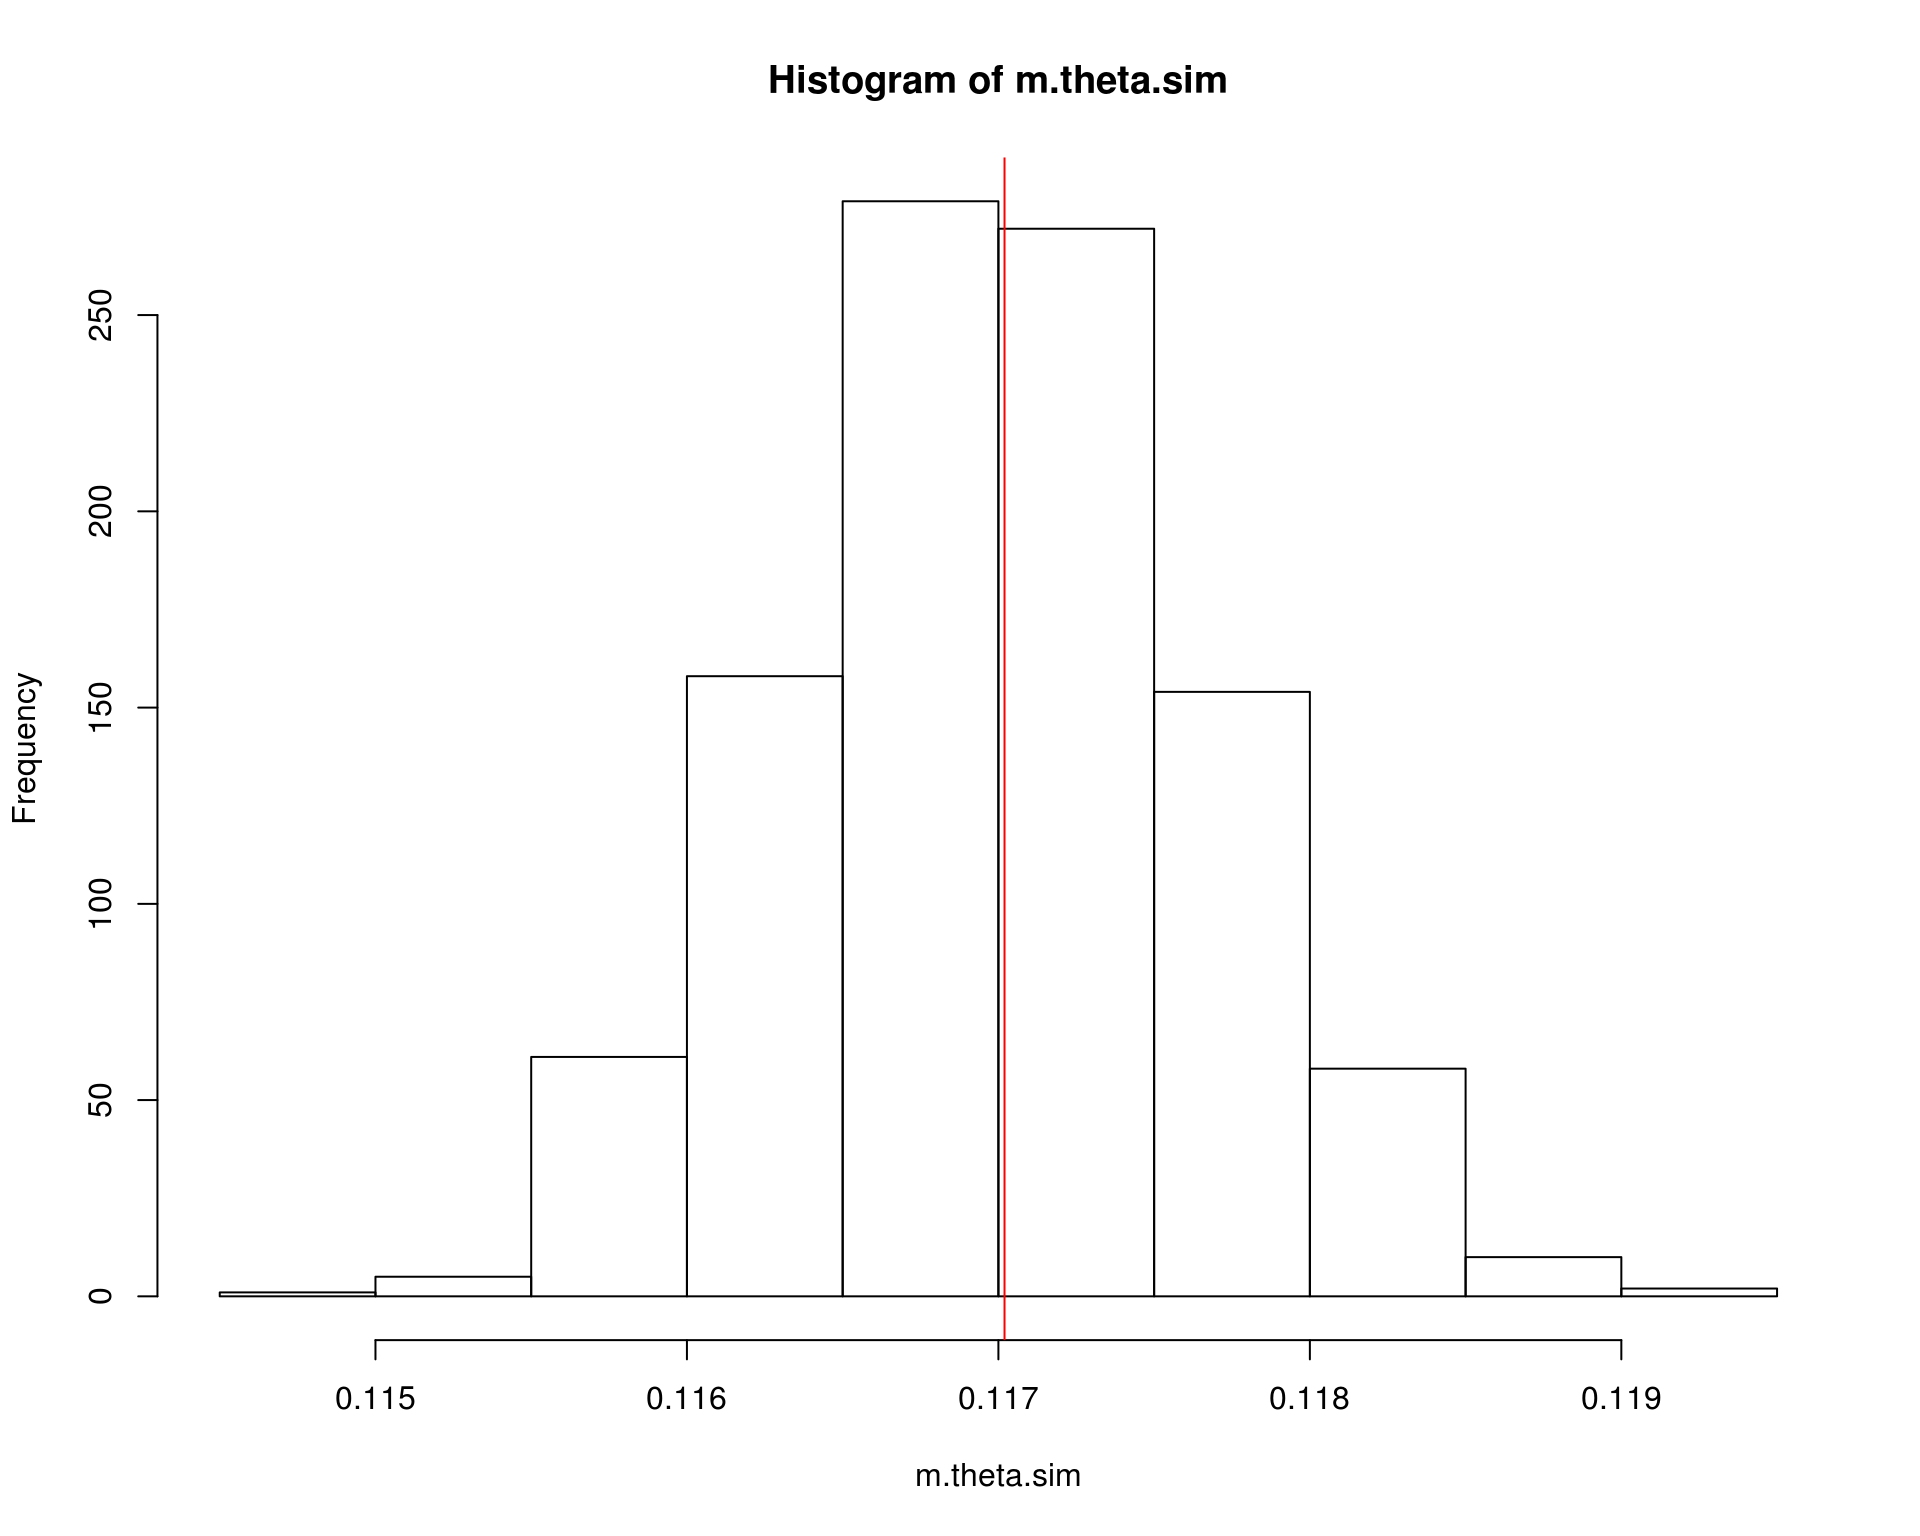
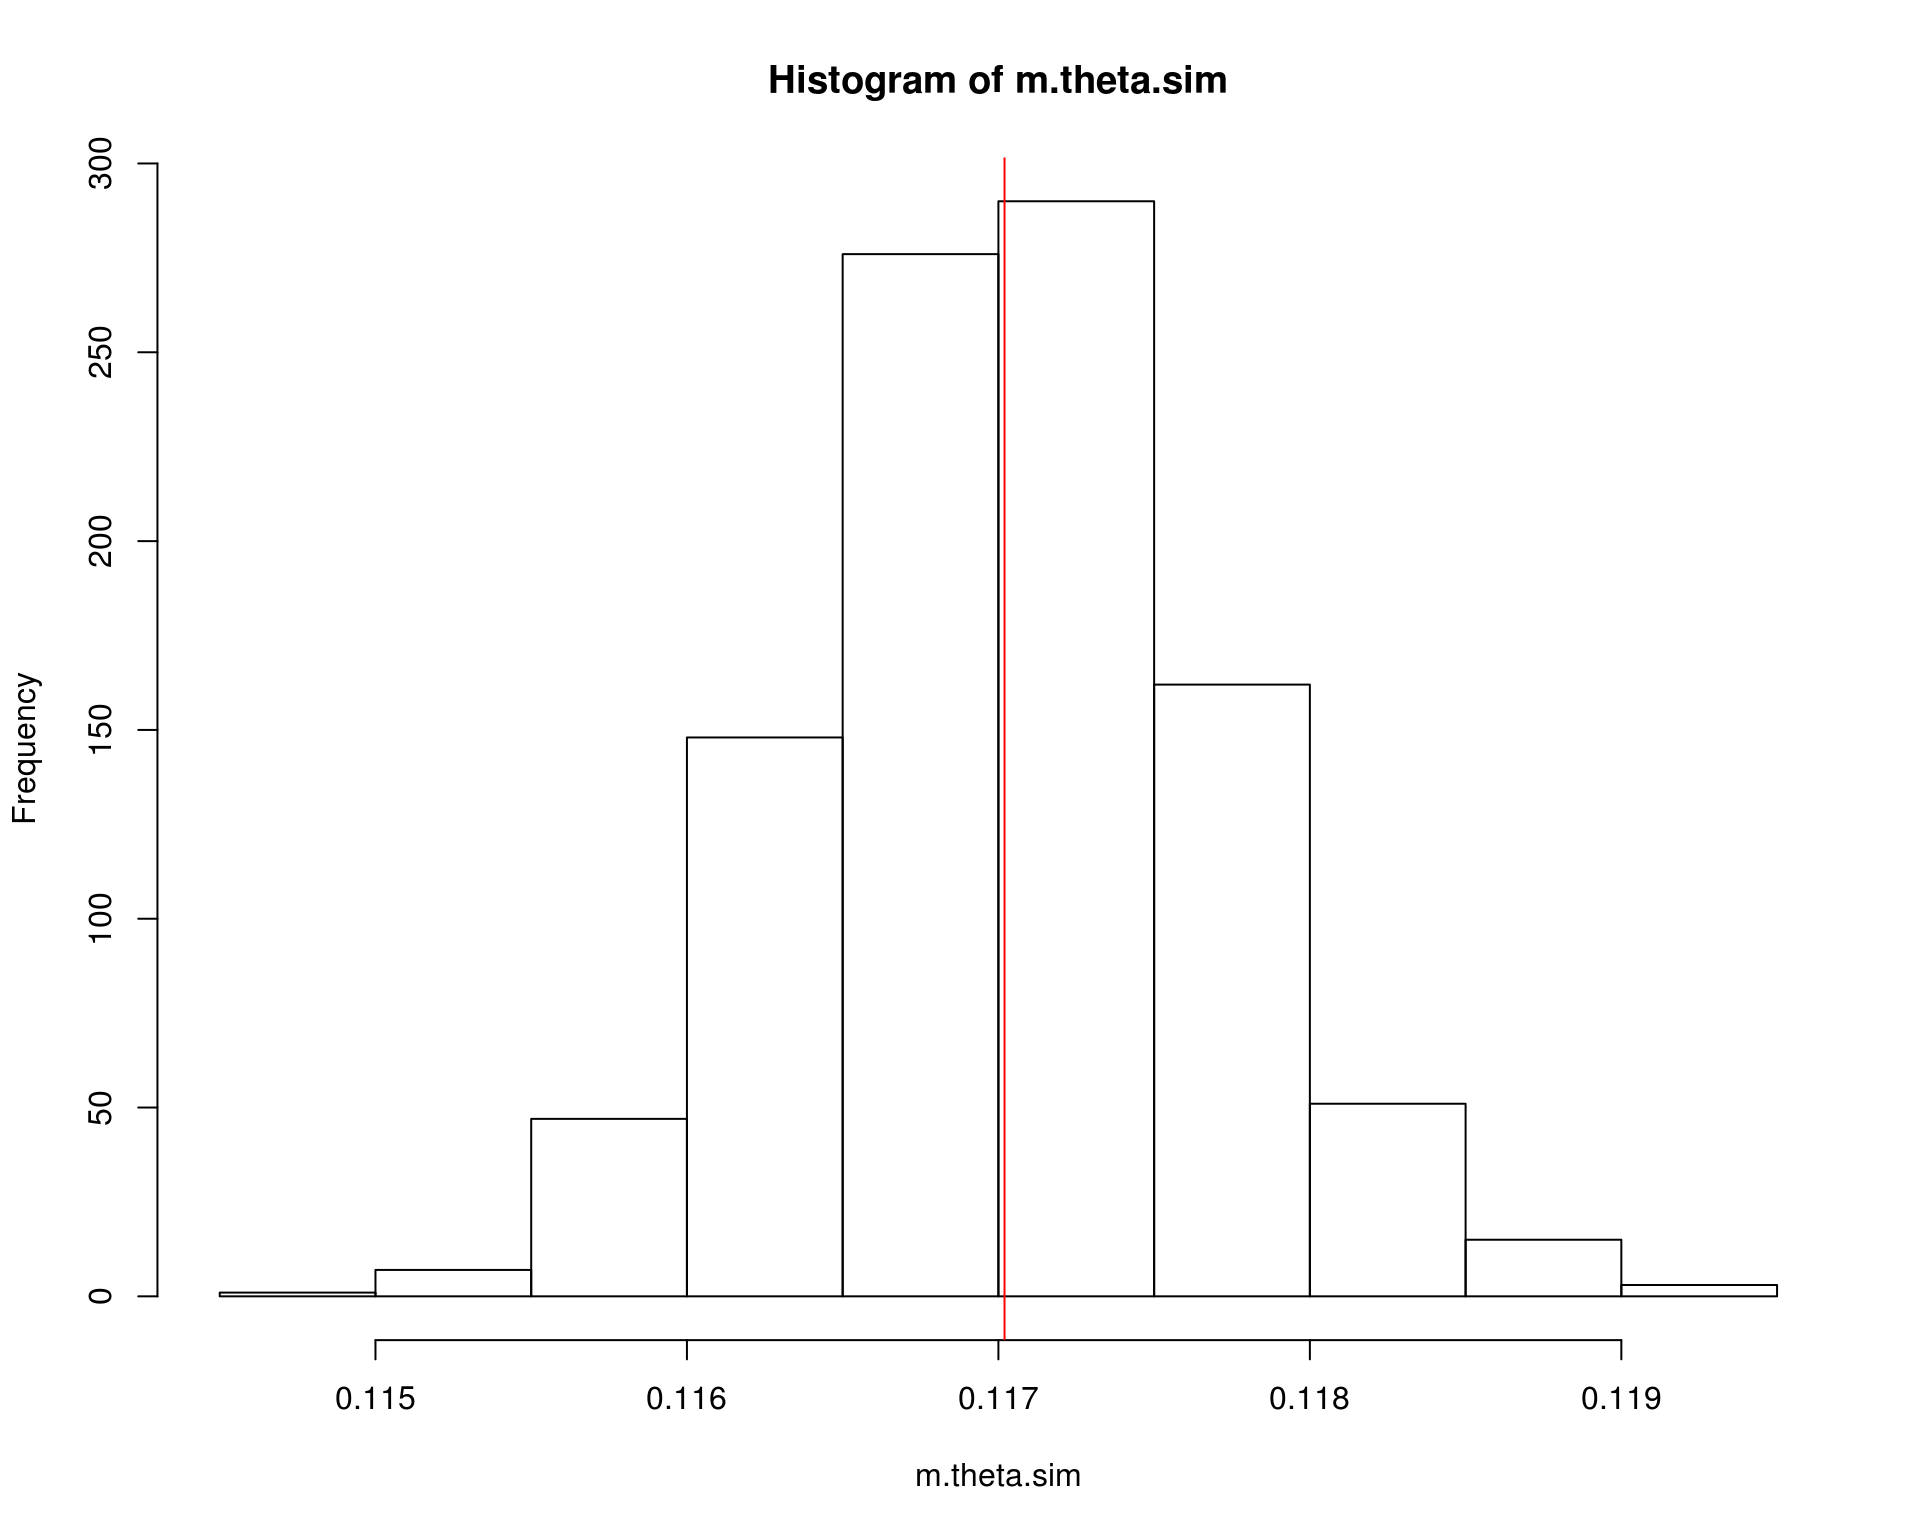
The site is alive.

diff --git a/notas.html b/notas.html
@@ -307,180 +307,305 @@ $(document).ready(function () {
 <thead>
 <tr class="header">
 <th align="left">Matrícula</th>
+<th align="left">Nome</th>
 <th align="right">A1</th>
 <th align="right">A2</th>
 <th align="right">P1</th>
 <th align="right">P2</th>
+<th align="right">Apres</th>
+<th align="right">Trab</th>
+<th align="right">Parcial</th>
+<th align="left">X</th>
 </tr>
 </thead>
 <tbody>
 <tr class="odd">
 <td align="left">GRR20137526</td>
+<td align="left">ALEXANDRE MORALES DIAZ</td>
 <td align="right">NA</td>
 <td align="right">NA</td>
 <td align="right">NA</td>
 <td align="right">NA</td>
+<td align="right">NA</td>
+<td align="right">NA</td>
+<td align="right">0</td>
+<td align="left">R-FALTA</td>
 </tr>
 <tr class="even">
 <td align="left">GRR20137583</td>
+<td align="left">NATHALIE DO AMARAL PORTO MARTINS</td>
 <td align="right">NA</td>
 <td align="right">NA</td>
 <td align="right">NA</td>
 <td align="right">NA</td>
+<td align="right">NA</td>
+<td align="right">NA</td>
+<td align="right">0</td>
+<td align="left">R-FALTA</td>
 </tr>
 <tr class="odd">
 <td align="left">GRR20149092</td>
+<td align="left">JOAO MATHEUS SLUJALA KRUGER TABORDA HNEDA</td>
 <td align="right">12</td>
 <td align="right">NA</td>
 <td align="right">NA</td>
 <td align="right">NA</td>
+<td align="right">NA</td>
+<td align="right">NA</td>
+<td align="right">1</td>
+<td align="left">R-FALTA</td>
 </tr>
 <tr class="even">
 <td align="left">GRR20149112</td>
+<td align="left">NATHAN MACHADO OLSCHOWSKY</td>
 <td align="right">25</td>
 <td align="right">NA</td>
 <td align="right">NA</td>
 <td align="right">NA</td>
+<td align="right">NA</td>
+<td align="right">NA</td>
+<td align="right">2</td>
+<td align="left">R-FALTA</td>
 </tr>
 <tr class="odd">
 <td align="left">GRR20149163</td>
+<td align="left">BRENDHA RODRIGUES DE LIMA</td>
 <td align="right">10</td>
 <td align="right">10</td>
 <td align="right">12</td>
 <td align="right">NA</td>
+<td align="right">NA</td>
+<td align="right">NA</td>
+<td align="right">5</td>
+<td align="left">R-FALTA</td>
 </tr>
 <tr class="even">
 <td align="left">GRR20159111</td>
+<td align="left">MAIKE WILLIAN MARTINS DOS SANTOS</td>
 <td align="right">5</td>
 <td align="right">NA</td>
 <td align="right">NA</td>
 <td align="right">NA</td>
+<td align="right">NA</td>
+<td align="right">NA</td>
+<td align="right">0</td>
+<td align="left">R-FALTA</td>
 </tr>
 <tr class="odd">
 <td align="left">GRR20159136</td>
+<td align="left">LUCAS LABHARDT LISBOA</td>
 <td align="right">NA</td>
 <td align="right">NA</td>
 <td align="right">NA</td>
 <td align="right">NA</td>
+<td align="right">NA</td>
+<td align="right">NA</td>
+<td align="right">0</td>
+<td align="left">R_FALTA</td>
 </tr>
 <tr class="even">
 <td align="left">GRR20159211</td>
+<td align="left">HERMANN MOGIZ DELGADO</td>
 <td align="right">50</td>
 <td align="right">90</td>
 <td align="right">57</td>
 <td align="right">89</td>
+<td align="right">80</td>
+<td align="right">85</td>
+<td align="right">75</td>
+<td align="left">Aprovado</td>
 </tr>
 <tr class="odd">
 <td align="left">GRR20159231</td>
+<td align="left">THAYS COSTA E SILVA DE SOUZA</td>
 <td align="right">25</td>
 <td align="right">30</td>
 <td align="right">17</td>
 <td align="right">10</td>
+<td align="right">0</td>
+<td align="right">70</td>
+<td align="right">23</td>
+<td align="left">Reprovado</td>
 </tr>
 <tr class="even">
 <td align="left">GRR20159695</td>
+<td align="left">ALTAMIRO ANTONIO BASIEWICS</td>
 <td align="right">NA</td>
 <td align="right">NA</td>
 <td align="right">NA</td>
 <td align="right">NA</td>
+<td align="right">NA</td>
+<td align="right">NA</td>
+<td align="right">0</td>
+<td align="left">R-FALTA</td>
 </tr>
 <tr class="odd">
 <td align="left">GRR20160204</td>
+<td align="left">GEAN PAULO SOARES MACHADO</td>
 <td align="right">5</td>
 <td align="right">NA</td>
 <td align="right">NA</td>
 <td align="right">NA</td>
+<td align="right">NA</td>
+<td align="right">NA</td>
+<td align="right">0</td>
+<td align="left">R-FALTA</td>
 </tr>
 <tr class="even">
 <td align="left">GRR20160206</td>
+<td align="left">RAFAEL BUTTINI SALVIATO</td>
 <td align="right">96</td>
 <td align="right">70</td>
 <td align="right">36</td>
 <td align="right">75</td>
+<td align="right">90</td>
+<td align="right">80</td>
+<td align="right">71</td>
+<td align="left">Aprovado</td>
 </tr>
 <tr class="odd">
 <td align="left">GRR20160215</td>
+<td align="left">GUSTAVO SCHILLING SCHUTT</td>
 <td align="right">83</td>
 <td align="right">20</td>
 <td align="right">22</td>
 <td align="right">56</td>
+<td align="right">70</td>
+<td align="right">75</td>
+<td align="right">52</td>
+<td align="left">Final</td>
 </tr>
 <tr class="even">
 <td align="left">GRR20160217</td>
+<td align="left">RAFAEL MORCIANI ALVES DA SILVA</td>
 <td align="right">50</td>
 <td align="right">69</td>
 <td align="right">43</td>
 <td align="right">55</td>
+<td align="right">70</td>
+<td align="right">75</td>
+<td align="right">58</td>
+<td align="left">Final</td>
 </tr>
 <tr class="odd">
 <td align="left">GRR20160219</td>
+<td align="left">LUAN DEMARCO FIORENTIN</td>
 <td align="right">100</td>
 <td align="right">67</td>
 <td align="right">76</td>
 <td align="right">76</td>
+<td align="right">90</td>
+<td align="right">95</td>
+<td align="right">82</td>
+<td align="left">Aprovado</td>
 </tr>
 <tr class="even">
 <td align="left">GRR20160221</td>
+<td align="left">LETICIA VIEIRA DA ROCHA</td>
 <td align="right">NA</td>
 <td align="right">NA</td>
 <td align="right">NA</td>
 <td align="right">NA</td>
+<td align="right">NA</td>
+<td align="right">NA</td>
+<td align="right">0</td>
+<td align="left">R-FALTA</td>
 </tr>
 <tr class="odd">
 <td align="left">GRR20160230</td>
+<td align="left">IGOR HOLTRUP HORROCKS</td>
 <td align="right">95</td>
 <td align="right">25</td>
 <td align="right">58</td>
 <td align="right">70</td>
+<td align="right">90</td>
+<td align="right">80</td>
+<td align="right">71</td>
+<td align="left">Aprovado</td>
 </tr>
 <tr class="even">
 <td align="left">GRR20160239</td>
+<td align="left">DENNIS SANTOS LEAO</td>
 <td align="right">45</td>
 <td align="right">52</td>
 <td align="right">19</td>
 <td align="right">74</td>
+<td align="right">100</td>
+<td align="right">90</td>
+<td align="right">61</td>
+<td align="left">Final</td>
 </tr>
 <tr class="odd">
 <td align="left">GRR20160304</td>
+<td align="left">ALLAN TETSUYA MORINAGA</td>
 <td align="right">NA</td>
 <td align="right">NA</td>
 <td align="right">NA</td>
 <td align="right">NA</td>
+<td align="right">NA</td>
+<td align="right">NA</td>
+<td align="right">0</td>
+<td align="left">R-FALTA</td>
 </tr>
 <tr class="even">
 <td align="left">GRR20164019</td>
+<td align="left">HURIEL RUAN REICHEL</td>
 <td align="right">48</td>
 <td align="right">NA</td>
 <td align="right">NA</td>
 <td align="right">NA</td>
+<td align="right">NA</td>
+<td align="right">NA</td>
+<td align="right">5</td>
+<td align="left">R-FALTA</td>
 </tr>
 <tr class="odd">
 <td align="left">GRR20165742</td>
+<td align="left">THIAGO LEDUR HOEFLICH</td>
 <td align="right">10</td>
 <td align="right">NA</td>
 <td align="right">NA</td>
 <td align="right">NA</td>
+<td align="right">NA</td>
+<td align="right">NA</td>
+<td align="right">1</td>
+<td align="left">R-FALTA</td>
 </tr>
 <tr class="even">
 <td align="left">GRR20176432</td>
+<td align="left">MATEUS GEMELLI RAMOS</td>
 <td align="right">17</td>
 <td align="right">NA</td>
 <td align="right">NA</td>
 <td align="right">NA</td>
+<td align="right">NA</td>
+<td align="right">NA</td>
+<td align="right">2</td>
+<td align="left">R-FALTA</td>
 </tr>
 <tr class="odd">
 <td align="left">GRR20185596</td>
+<td align="left">RODRIGO PORTANTIOLO WAGNER</td>
 <td align="right">NA</td>
 <td align="right">NA</td>
 <td align="right">NA</td>
 <td align="right">NA</td>
+<td align="right">NA</td>
+<td align="right">NA</td>
+<td align="right">0</td>
+<td align="left">R-FALTA</td>
 </tr>
 <tr class="even">
 <td align="left">ISO20130219</td>
+<td align="left">ANDRYAS WAURZENCZAK</td>
 <td align="right">NA</td>
 <td align="right">NA</td>
 <td align="right">NA</td>
 <td align="right">NA</td>
+<td align="right">NA</td>
+<td align="right">NA</td>
+<td align="right">0</td>
+<td align="left">R-FALTA</td>
 </tr>
 </tbody>
 </table>

diff --git a/MC_intro.html b/MC_intro.html
@@ -553,7 +553,7 @@ P(\lim_{n \to \infty} |\bar{X}_n - \mu| &lt; \epsilon) = 1
 <a class="sourceLine" id="cb1-5" title="5">theta.hat &lt;-<span class="st"> </span><span class="kw">exp</span>(<span class="op">-</span>x)</a>
 <a class="sourceLine" id="cb1-6" title="6"><span class="co">## Calcula a média</span></a>
 <a class="sourceLine" id="cb1-7" title="7">(m.theta.hat &lt;-<span class="st"> </span><span class="kw">sum</span>(theta.hat)<span class="op">/</span>m)</a>
-<a class="sourceLine" id="cb1-8" title="8"><span class="co"># [1] 0.6298755</span></a></code></pre></div>
+<a class="sourceLine" id="cb1-8" title="8"><span class="co"># [1] 0.6314137</span></a></code></pre></div>
 <p>Nesse caso, podemos obter a solução analítica e integração numérica no R para comparar as estimativas</p>
 <div class="sourceCode" id="cb2"><pre class="sourceCode r"><code class="sourceCode r"><a class="sourceLine" id="cb2-1" title="1"><span class="co">## Solução analítica</span></a>
 <a class="sourceLine" id="cb2-2" title="2">(theta &lt;-<span class="st"> </span><span class="dv">1</span> <span class="op">-</span><span class="st"> </span><span class="kw">exp</span>(<span class="op">-</span><span class="dv">1</span>))</a>
@@ -593,7 +593,7 @@ P(\lim_{n \to \infty} |\bar{X}_n - \mu| &lt; \epsilon) = 1
 <a class="sourceLine" id="cb3-6" title="6">theta.hat &lt;-<span class="st"> </span><span class="kw">exp</span>(<span class="op">-</span>x)</a>
 <a class="sourceLine" id="cb3-7" title="7"><span class="co">## Calcula a média * (b - a)</span></a>
 <a class="sourceLine" id="cb3-8" title="8">(m.theta.hat &lt;-<span class="st"> </span>(<span class="kw">sum</span>(theta.hat)<span class="op">/</span>m) <span class="op">*</span><span class="st"> </span>(b <span class="op">-</span><span class="st"> </span>a))</a>
-<a class="sourceLine" id="cb3-9" title="9"><span class="co"># [1] 0.11696</span></a></code></pre></div>
+<a class="sourceLine" id="cb3-9" title="9"><span class="co"># [1] 0.1175212</span></a></code></pre></div>
 <p>Nesse caso, podemos obter a solução analítica e integração numérica no R para comparar as estimativas</p>
 <div class="sourceCode" id="cb4"><pre class="sourceCode r"><code class="sourceCode r"><a class="sourceLine" id="cb4-1" title="1"><span class="co">## Solução analítica</span></a>
 <a class="sourceLine" id="cb4-2" title="2">(theta &lt;-<span class="st"> </span><span class="kw">exp</span>(<span class="op">-</span><span class="dv">2</span>) <span class="op">-</span><span class="st"> </span><span class="kw">exp</span>(<span class="op">-</span><span class="dv">4</span>))</a>
@@ -614,7 +614,7 @@ P[X&gt;2] = \int_2^{\infty} e^{-x} dx
 <a class="sourceLine" id="cb5-5" title="5">theta.hat2 &lt;-<span class="st"> </span><span class="kw">exp</span>(<span class="op">-</span>x2)</a>
 <a class="sourceLine" id="cb5-6" title="6"><span class="co">## Calcula a média * (b - a)</span></a>
 <a class="sourceLine" id="cb5-7" title="7">(m.theta.hat2 &lt;-<span class="st"> </span>(<span class="kw">sum</span>(theta.hat2)<span class="op">/</span>m) <span class="op">*</span><span class="st"> </span>(<span class="fl">1e5</span> <span class="op">-</span><span class="st"> </span><span class="dv">2</span>))</a>
-<a class="sourceLine" id="cb5-8" title="8"><span class="co"># [1] 7.103164e-06</span></a>
+<a class="sourceLine" id="cb5-8" title="8"><span class="co"># [1] 1.622695e-06</span></a>
 <a class="sourceLine" id="cb5-9" title="9"><span class="co">## Solução analítica</span></a>
 <a class="sourceLine" id="cb5-10" title="10">(theta2 &lt;-<span class="st"> </span><span class="kw">exp</span>(<span class="op">-</span><span class="dv">2</span>) <span class="op">-</span><span class="st"> </span><span class="kw">exp</span>(<span class="op">-</span><span class="fl">1e5</span>))</a>
 <a class="sourceLine" id="cb5-11" title="11"><span class="co"># [1] 0.1353353</span></a>
@@ -635,17 +635,17 @@ P[X&gt;2] = \int_2^{\infty} e^{-x} dx
 \]</span></p>
 <p>Seguindo o exemplo anterior, vimos que a estimativa da integral é</p>
 <div class="sourceCode" id="cb6"><pre class="sourceCode r"><code class="sourceCode r"><a class="sourceLine" id="cb6-1" title="1">m.theta.hat</a>
-<a class="sourceLine" id="cb6-2" title="2"><span class="co"># [1] 0.11696</span></a></code></pre></div>
+<a class="sourceLine" id="cb6-2" title="2"><span class="co"># [1] 0.1175212</span></a></code></pre></div>
 <p>Mas veja que existe uma distribuição de valores para compor esta estimativa média</p>
 <div class="sourceCode" id="cb7"><pre class="sourceCode r"><code class="sourceCode r"><a class="sourceLine" id="cb7-1" title="1"><span class="kw">hist</span>(theta.hat); <span class="kw">abline</span>(<span class="dt">v =</span> theta, <span class="dt">col =</span> <span class="dv">2</span>)</a></code></pre></div>
 <p><img src="figures/MC_intro/unnamed-chunk-9-1.png" width="80%" style="display: block; margin: auto;" /></p>
 <p>A variância relacionada ao estimador pode então ser calculada como</p>
 <div class="sourceCode" id="cb8"><pre class="sourceCode r"><code class="sourceCode r"><a class="sourceLine" id="cb8-1" title="1"><span class="co">## Variancia</span></a>
 <a class="sourceLine" id="cb8-2" title="2">(v.theta.hat &lt;-<span class="st"> </span><span class="kw">sum</span>((theta.hat <span class="op">-</span><span class="st"> </span>m.theta.hat)<span class="op">^</span><span class="dv">2</span>)<span class="op">/</span>m<span class="op">^</span><span class="dv">2</span>)</a>
-<a class="sourceLine" id="cb8-3" title="3"><span class="co"># [1] 4.483504e-07</span></a>
+<a class="sourceLine" id="cb8-3" title="3"><span class="co"># [1] 4.529591e-07</span></a>
 <a class="sourceLine" id="cb8-4" title="4"><span class="co">## Erro padrão</span></a>
 <a class="sourceLine" id="cb8-5" title="5">(se.theta.hat &lt;-<span class="st"> </span><span class="kw">sqrt</span>(v.theta.hat))</a>
-<a class="sourceLine" id="cb8-6" title="6"><span class="co"># [1] 0.0006695897</span></a></code></pre></div>
+<a class="sourceLine" id="cb8-6" title="6"><span class="co"># [1] 0.0006730223</span></a></code></pre></div>
 <p>Pelo Teorema do Limite Central, temos que</p>
 <p><span class="math display">\[
 \frac{\hat\theta - \text{E}(\hat\theta)}{\sqrt{\hat{V}(\hat\theta)}}
@@ -659,10 +659,10 @@ P[X&gt;2] = \int_2^{\infty} e^{-x} dx
 <p>Com esse resultado, podemos inclusive fornecer um intervalo de confiança associado à nossa estimativa</p>
 <div class="sourceCode" id="cb10"><pre class="sourceCode r"><code class="sourceCode r"><a class="sourceLine" id="cb10-1" title="1"><span class="co">## Media e veriancia</span></a>
 <a class="sourceLine" id="cb10-2" title="2"><span class="kw">c</span>(m.theta.hat, v.theta.hat)</a>
-<a class="sourceLine" id="cb10-3" title="3"><span class="co"># [1] 1.169600e-01 4.483504e-07</span></a>
+<a class="sourceLine" id="cb10-3" title="3"><span class="co"># [1] 1.175212e-01 4.529591e-07</span></a>
 <a class="sourceLine" id="cb10-4" title="4"><span class="co">## Intervalo de confiança (95%)</span></a>
 <a class="sourceLine" id="cb10-5" title="5"><span class="kw">c</span>(m.theta.hat <span class="op">-</span><span class="st"> </span><span class="fl">1.96</span> <span class="op">*</span><span class="st"> </span>se.theta.hat, m.theta.hat <span class="op">+</span><span class="st"> </span><span class="fl">1.96</span> <span class="op">*</span><span class="st"> </span>se.theta.hat)</a>
-<a class="sourceLine" id="cb10-6" title="6"><span class="co"># [1] 0.1156476 0.1182724</span></a></code></pre></div>
+<a class="sourceLine" id="cb10-6" title="6"><span class="co"># [1] 0.1162021 0.1188403</span></a></code></pre></div>
 <p>Veja que assintoticamente, i.e., conforme aumentamos o tamanho da amostra, o valor da integral se aproxima cada vez mais do valor verdadeiro (que nesse caso sabemos calcular analiticamente, apenas para comparação).</p>
 <div class="sourceCode" id="cb11"><pre class="sourceCode r"><code class="sourceCode r"><a class="sourceLine" id="cb11-1" title="1"><span class="co">## Simula a convergência para o verdadeiro valor conforme aumenta o</span></a>
 <a class="sourceLine" id="cb11-2" title="2"><span class="co">## tamanho da amostra</span></a>
